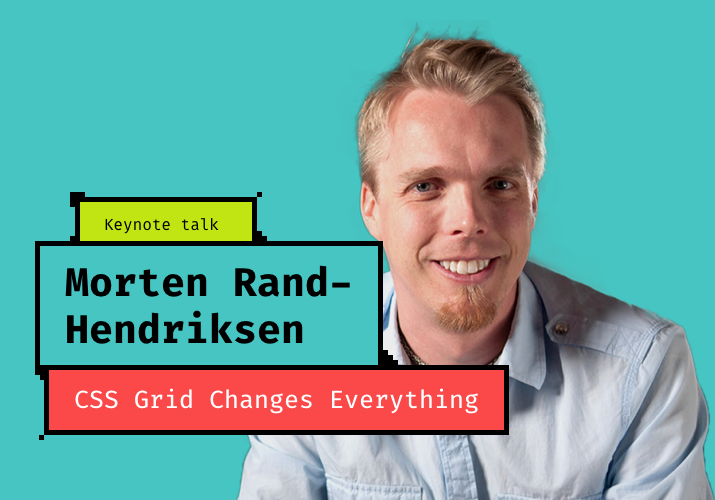
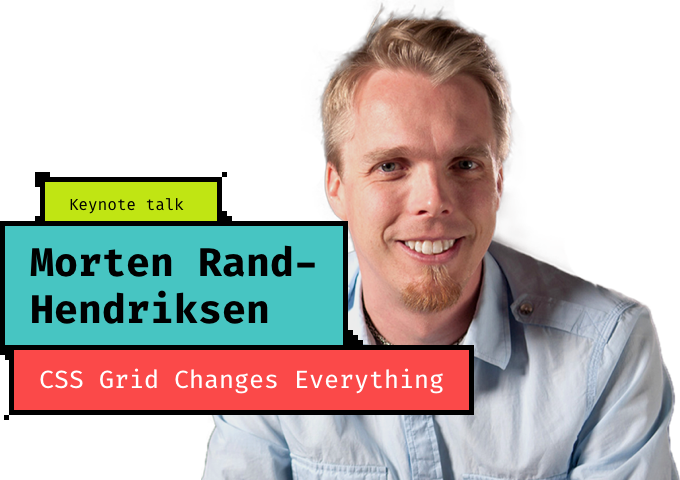
Replace keynote images with transparent pngs

diff --git a/ui/dist/styles/style.css b/ui/dist/styles/style.css
@@ -3777,19 +3777,25 @@ select {
   max-width: 7rem; }
 
 .keynotes-block .columns {
-  text-align: center; }
+  padding-top: 2rem; }
 
 .keynotes-block .columns:first-child {
   background-color: #C0E413; }
   @media print, screen and (min-width: 40em) {
     .keynotes-block .columns:first-child {
       text-align: right; } }
+  @media print, screen and (min-width: 64em) {
+    .keynotes-block .columns:first-child {
+      padding-right: 40px; } }
 
 .keynotes-block .columns:last-child {
   background-color: #47C5C2; }
   @media print, screen and (min-width: 40em) {
     .keynotes-block .columns:last-child {
       text-align: left; } }
+  @media print, screen and (min-width: 64em) {
+    .keynotes-block .columns:last-child {
+      padding-left: 40px; } }
 
 .keynotes-block .heart-center {
   position: relative; }

diff --git a/ui/styles/_keynotes.scss b/ui/styles/_keynotes.scss
@@ -1,6 +1,6 @@
 .keynotes-block {
     .columns {
-        text-align: center;
+        padding-top: 2rem;
     }
 
     .columns:first-child {
@@ -9,6 +9,9 @@
         @include breakpoint(medium) {
             text-align: right;
         }
+        @include breakpoint(large) {
+            padding-right: 40px;
+        }
     }
 
     .columns:last-child {
@@ -16,6 +19,9 @@
 
         @include breakpoint(medium) {
             text-align: left;
+        }
+        @include breakpoint(large) {
+            padding-left: 40px;
         }
     }
 
